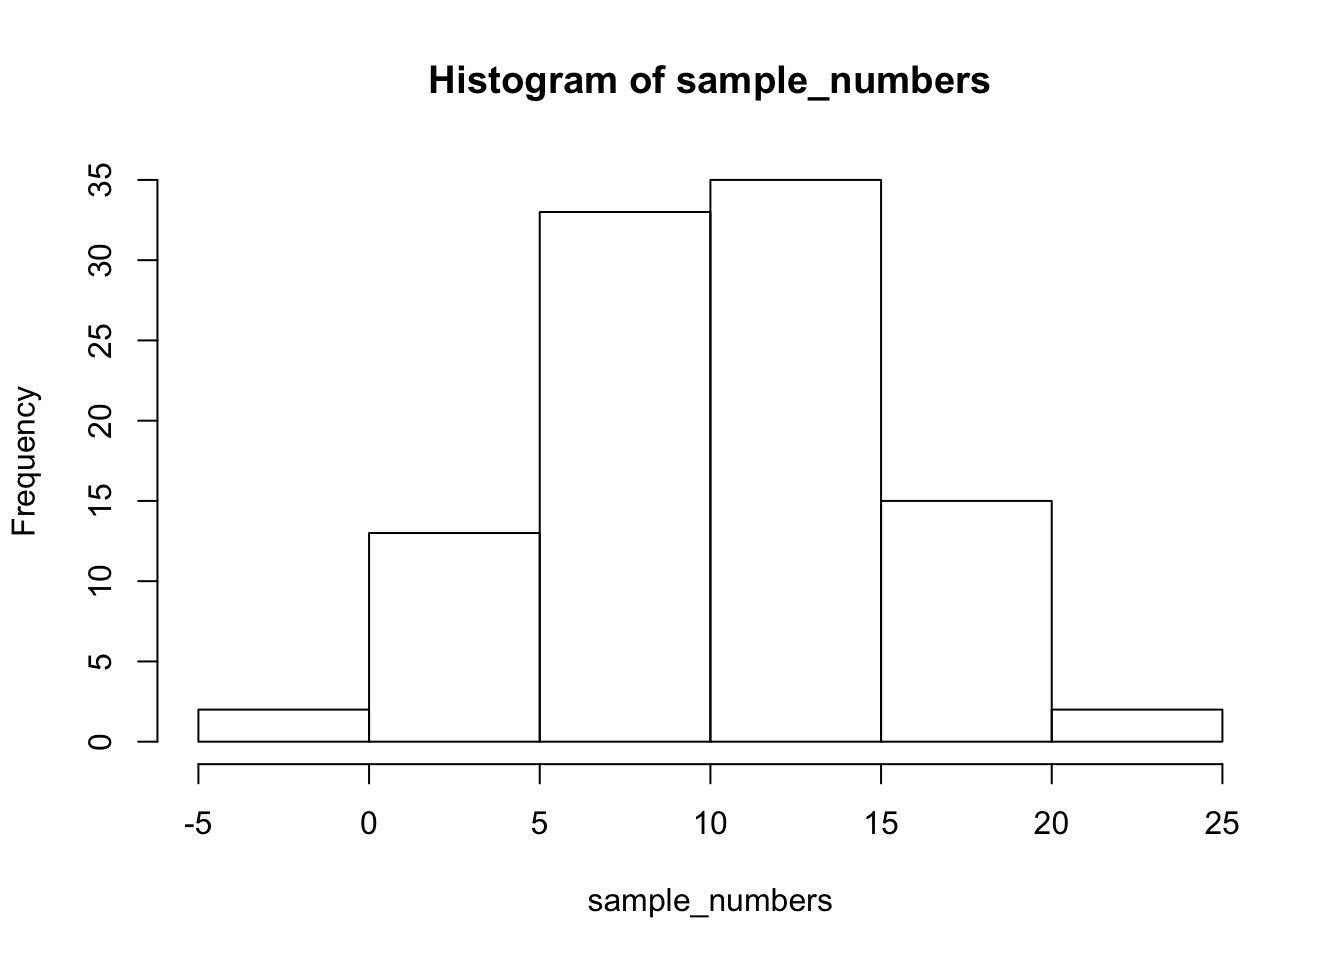
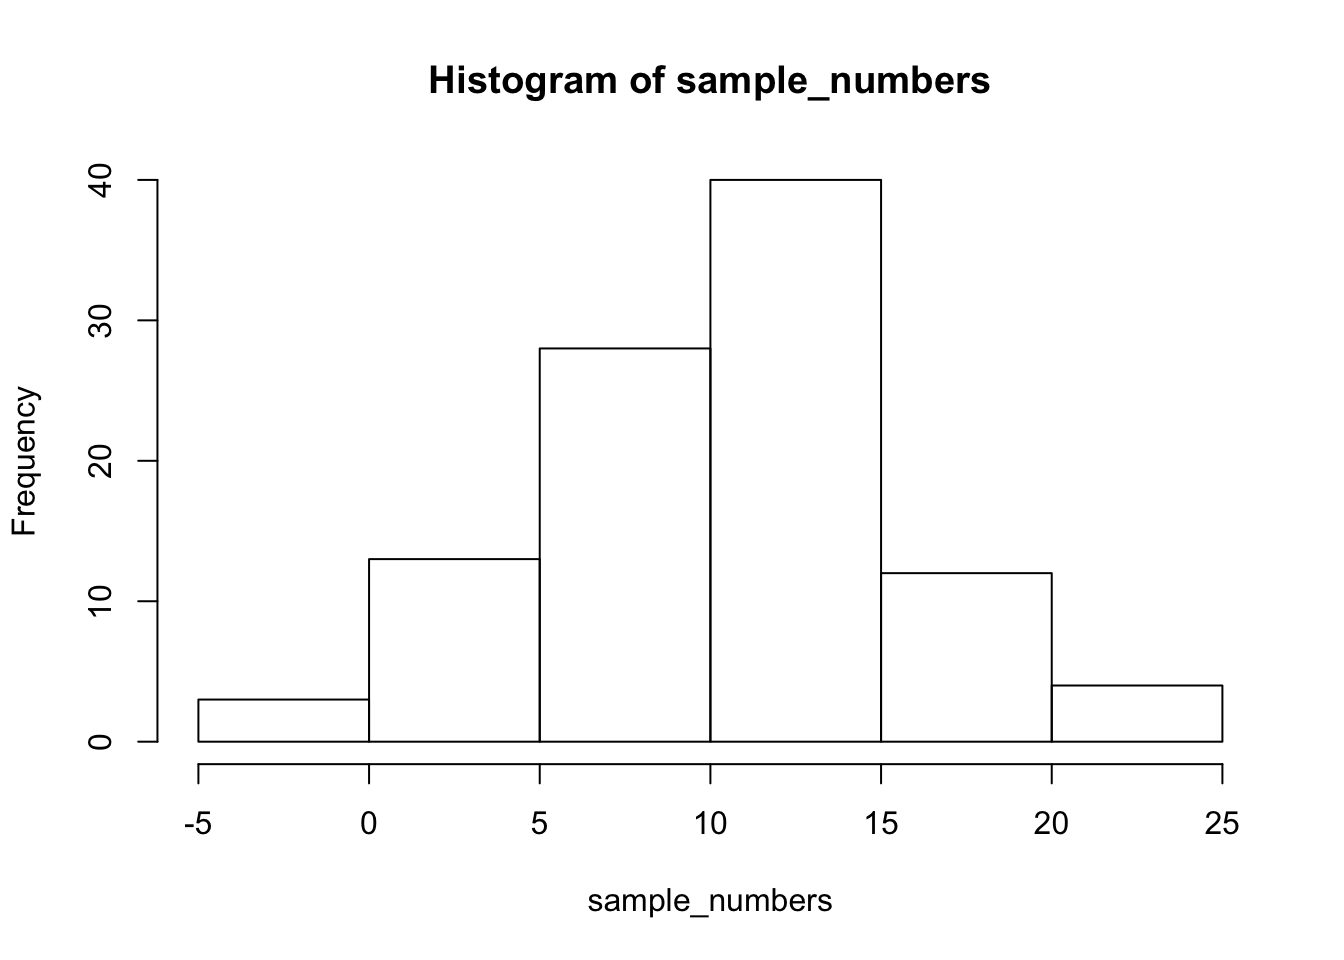
minor fix

diff --git a/docs/lab-2-descriptive-statistics-and-more-graphs.html b/docs/lab-2-descriptive-statistics-and-more-graphs.html
@@ -704,22 +704,22 @@ Describing comic sensibility is near impossible. It’s sort of an abstract sill
 <h4><span class="header-section-number">2.2.3.1</span> range</h4>
 <p>The range is the minimum and maximum values in the set, we use the <code>range</code> function.</p>
 <div class="sourceCode" id="cb21"><pre class="sourceCode r"><code class="sourceCode r"><span id="cb21-1"><a href="lab-2-descriptive-statistics-and-more-graphs.html#cb21-1" aria-hidden="true" tabindex="-1"></a><span class="fu">range</span>(sample_numbers)</span></code></pre></div>
-<pre><code>## [1] -2.087297 21.273803</code></pre>
+<pre><code>## [1] -1.905809 22.628741</code></pre>
 </div>
 <div id="var-variance" class="section level4" number="2.2.3.2">
 <h4><span class="header-section-number">2.2.3.2</span> var = variance</h4>
 <p>We can find the sample variance using <code>var</code>. Note, divides by (n-1)</p>
 <div class="sourceCode" id="cb23"><pre class="sourceCode r"><code class="sourceCode r"><span id="cb23-1"><a href="lab-2-descriptive-statistics-and-more-graphs.html#cb23-1" aria-hidden="true" tabindex="-1"></a><span class="fu">var</span>(sample_numbers)</span></code></pre></div>
-<pre><code>## [1] 22.479</code></pre>
+<pre><code>## [1] 26.11673</code></pre>
 </div>
 <div id="sd-standard-deviation" class="section level4" number="2.2.3.3">
 <h4><span class="header-section-number">2.2.3.3</span> sd = standard deviation</h4>
 <p>We find the sample standard deviation us SD. Note, divides by (n-1)</p>
 <div class="sourceCode" id="cb25"><pre class="sourceCode r"><code class="sourceCode r"><span id="cb25-1"><a href="lab-2-descriptive-statistics-and-more-graphs.html#cb25-1" aria-hidden="true" tabindex="-1"></a><span class="fu">sd</span>(sample_numbers)</span></code></pre></div>
-<pre><code>## [1] 4.741202</code></pre>
+<pre><code>## [1] 5.110453</code></pre>
 <p>Remember that the standard deviation is just the square root of the variance, see:</p>
 <div class="sourceCode" id="cb27"><pre class="sourceCode r"><code class="sourceCode r"><span id="cb27-1"><a href="lab-2-descriptive-statistics-and-more-graphs.html#cb27-1" aria-hidden="true" tabindex="-1"></a><span class="fu">sqrt</span>(<span class="fu">var</span>(sample_numbers))</span></code></pre></div>
-<pre><code>## [1] 4.741202</code></pre>
+<pre><code>## [1] 5.110453</code></pre>
 </div>
 <div id="all-descriptives" class="section level4" number="2.2.3.4">
 <h4><span class="header-section-number">2.2.3.4</span> All Descriptives</h4>
@@ -727,21 +727,21 @@ Describing comic sensibility is near impossible. It’s sort of an abstract sill
 <div class="sourceCode" id="cb29"><pre class="sourceCode r"><code class="sourceCode r"><span id="cb29-1"><a href="lab-2-descriptive-statistics-and-more-graphs.html#cb29-1" aria-hidden="true" tabindex="-1"></a>sample_numbers <span class="ot">&lt;-</span> <span class="fu">rnorm</span>(<span class="dv">100</span>,<span class="dv">10</span>,<span class="dv">5</span>)</span>
 <span id="cb29-2"><a href="lab-2-descriptive-statistics-and-more-graphs.html#cb29-2" aria-hidden="true" tabindex="-1"></a></span>
 <span id="cb29-3"><a href="lab-2-descriptive-statistics-and-more-graphs.html#cb29-3" aria-hidden="true" tabindex="-1"></a><span class="fu">sum</span>(sample_numbers)</span></code></pre></div>
-<pre><code>## [1] 1085.055</code></pre>
+<pre><code>## [1] 969.5926</code></pre>
 <div class="sourceCode" id="cb31"><pre class="sourceCode r"><code class="sourceCode r"><span id="cb31-1"><a href="lab-2-descriptive-statistics-and-more-graphs.html#cb31-1" aria-hidden="true" tabindex="-1"></a><span class="fu">length</span>(sample_numbers)</span></code></pre></div>
 <pre><code>## [1] 100</code></pre>
 <div class="sourceCode" id="cb33"><pre class="sourceCode r"><code class="sourceCode r"><span id="cb33-1"><a href="lab-2-descriptive-statistics-and-more-graphs.html#cb33-1" aria-hidden="true" tabindex="-1"></a><span class="fu">mean</span>(sample_numbers)</span></code></pre></div>
-<pre><code>## [1] 10.85055</code></pre>
+<pre><code>## [1] 9.695926</code></pre>
 <div class="sourceCode" id="cb35"><pre class="sourceCode r"><code class="sourceCode r"><span id="cb35-1"><a href="lab-2-descriptive-statistics-and-more-graphs.html#cb35-1" aria-hidden="true" tabindex="-1"></a><span class="fu">median</span>(sample_numbers)</span></code></pre></div>
-<pre><code>## [1] 10.87351</code></pre>
+<pre><code>## [1] 9.810293</code></pre>
 <div class="sourceCode" id="cb37"><pre class="sourceCode r"><code class="sourceCode r"><span id="cb37-1"><a href="lab-2-descriptive-statistics-and-more-graphs.html#cb37-1" aria-hidden="true" tabindex="-1"></a><span class="fu">my_mode</span>(sample_numbers)</span></code></pre></div>
-<pre><code>## [1] 13.25117</code></pre>
+<pre><code>## [1] 7.523507</code></pre>
 <div class="sourceCode" id="cb39"><pre class="sourceCode r"><code class="sourceCode r"><span id="cb39-1"><a href="lab-2-descriptive-statistics-and-more-graphs.html#cb39-1" aria-hidden="true" tabindex="-1"></a><span class="fu">range</span>(sample_numbers)</span></code></pre></div>
-<pre><code>## [1] -3.040036 23.168718</code></pre>
+<pre><code>## [1] -1.701621 20.371631</code></pre>
 <div class="sourceCode" id="cb41"><pre class="sourceCode r"><code class="sourceCode r"><span id="cb41-1"><a href="lab-2-descriptive-statistics-and-more-graphs.html#cb41-1" aria-hidden="true" tabindex="-1"></a><span class="fu">var</span>(sample_numbers)</span></code></pre></div>
-<pre><code>## [1] 26.14773</code></pre>
+<pre><code>## [1] 23.57015</code></pre>
 <div class="sourceCode" id="cb43"><pre class="sourceCode r"><code class="sourceCode r"><span id="cb43-1"><a href="lab-2-descriptive-statistics-and-more-graphs.html#cb43-1" aria-hidden="true" tabindex="-1"></a><span class="fu">sd</span>(sample_numbers)</span></code></pre></div>
-<pre><code>## [1] 5.113485</code></pre>
+<pre><code>## [1] 4.85491</code></pre>
 </div>
 </div>
 <div id="descriptives-by-conditions" class="section level3" number="2.2.4">
@@ -754,11 +754,11 @@ Describing comic sensibility is near impossible. It’s sort of an abstract sill
 <p>If you look at the <code>my_df</code> data frame, you will see it has 100 rows, there are 10 rows for each condition with a label in the <code>conditions</code> column, and 10 scores for each condition in the <code>scores</code> column. What if you wanted to know the mean of the scores in each condition? You would want to find 10 means.</p>
 <p>The slow way to do it would be like this:</p>
 <div class="sourceCode" id="cb46"><pre class="sourceCode r"><code class="sourceCode r"><span id="cb46-1"><a href="lab-2-descriptive-statistics-and-more-graphs.html#cb46-1" aria-hidden="true" tabindex="-1"></a><span class="fu">mean</span>(my_df[my_df<span class="sc">$</span>conditions<span class="sc">==</span><span class="st">&quot;A&quot;</span>,]<span class="sc">$</span>scores)</span></code></pre></div>
-<pre><code>## [1] 9.965577</code></pre>
+<pre><code>## [1] 8.007127</code></pre>
 <div class="sourceCode" id="cb48"><pre class="sourceCode r"><code class="sourceCode r"><span id="cb48-1"><a href="lab-2-descriptive-statistics-and-more-graphs.html#cb48-1" aria-hidden="true" tabindex="-1"></a><span class="fu">mean</span>(my_df[my_df<span class="sc">$</span>conditions<span class="sc">==</span><span class="st">&quot;B&quot;</span>,]<span class="sc">$</span>scores)</span></code></pre></div>
-<pre><code>## [1] 12.42995</code></pre>
+<pre><code>## [1] 12.67182</code></pre>
 <div class="sourceCode" id="cb50"><pre class="sourceCode r"><code class="sourceCode r"><span id="cb50-1"><a href="lab-2-descriptive-statistics-and-more-graphs.html#cb50-1" aria-hidden="true" tabindex="-1"></a><span class="fu">mean</span>(my_df[my_df<span class="sc">$</span>conditions<span class="sc">==</span><span class="st">&quot;C&quot;</span>,]<span class="sc">$</span>scores)</span></code></pre></div>
-<pre><code>## [1] 10.68259</code></pre>
+<pre><code>## [1] 10.38982</code></pre>
 <div class="sourceCode" id="cb52"><pre class="sourceCode r"><code class="sourceCode r"><span id="cb52-1"><a href="lab-2-descriptive-statistics-and-more-graphs.html#cb52-1" aria-hidden="true" tabindex="-1"></a><span class="co"># and then keep going</span></span></code></pre></div>
 <p>Nobody wants to do that! Not, me I stopped doing it that way, you should to.</p>
 <div id="group_by-and-summarise" class="section level4" number="2.2.4.1">
@@ -779,16 +779,16 @@ Describing comic sensibility is near impossible. It’s sort of an abstract sill
 <pre><code>## # A tibble: 10 x 2
 ##    conditions means
 ##  * &lt;fct&gt;      &lt;dbl&gt;
-##  1 A           9.97
-##  2 B          12.4 
-##  3 C          10.7 
-##  4 D          11.8 
+##  1 A           8.01
+##  2 B          12.7 
+##  3 C          10.4 
+##  4 D          13.3 
 ##  5 E          10.3 
-##  6 F           8.49
-##  7 G           7.99
-##  8 H           9.27
-##  9 I           8.23
-## 10 J          10.1</code></pre>
+##  6 F           8.02
+##  7 G          10.8 
+##  8 H          12.1 
+##  9 I           8.10
+## 10 J           8.97</code></pre>
 <p>A couple things now. First, the print out of this was ugly. Let’s fix that. we put the results of our code into a new variable, then we use <code>knitr::kable</code> to print it out nicely when we <code>knit</code> the document</p>
 <div class="sourceCode" id="cb59"><pre class="sourceCode r"><code class="sourceCode r"><span id="cb59-1"><a href="lab-2-descriptive-statistics-and-more-graphs.html#cb59-1" aria-hidden="true" tabindex="-1"></a>summary_df <span class="ot">&lt;-</span> my_df <span class="sc">%&gt;%</span></span>
 <span id="cb59-2"><a href="lab-2-descriptive-statistics-and-more-graphs.html#cb59-2" aria-hidden="true" tabindex="-1"></a>               <span class="fu">group_by</span>(conditions) <span class="sc">%&gt;%</span></span>
@@ -805,43 +805,43 @@ Describing comic sensibility is near impossible. It’s sort of an abstract sill
 <tbody>
 <tr class="odd">
 <td align="left">A</td>
-<td align="right">9.965577</td>
+<td align="right">8.007127</td>
 </tr>
 <tr class="even">
 <td align="left">B</td>
-<td align="right">12.429949</td>
+<td align="right">12.671815</td>
 </tr>
 <tr class="odd">
 <td align="left">C</td>
-<td align="right">10.682590</td>
+<td align="right">10.389818</td>
 </tr>
 <tr class="even">
 <td align="left">D</td>
-<td align="right">11.765614</td>
+<td align="right">13.332869</td>
 </tr>
 <tr class="odd">
 <td align="left">E</td>
-<td align="right">10.298033</td>
+<td align="right">10.328874</td>
 </tr>
 <tr class="even">
 <td align="left">F</td>
-<td align="right">8.487423</td>
+<td align="right">8.025000</td>
 </tr>
 <tr class="odd">
 <td align="left">G</td>
-<td align="right">7.994122</td>
+<td align="right">10.754765</td>
 </tr>
 <tr class="even">
 <td align="left">H</td>
-<td align="right">9.273144</td>
+<td align="right">12.137039</td>
 </tr>
 <tr class="odd">
 <td align="left">I</td>
-<td align="right">8.233074</td>
+<td align="right">8.099785</td>
 </tr>
 <tr class="even">
 <td align="left">J</td>
-<td align="right">10.081048</td>
+<td align="right">8.973796</td>
 </tr>
 </tbody>
 </table>
@@ -866,53 +866,53 @@ Describing comic sensibility is near impossible. It’s sort of an abstract sill
 <tbody>
 <tr class="odd">
 <td align="left">A</td>
-<td align="right">9.965577</td>
-<td align="right">5.587471</td>
+<td align="right">8.007127</td>
+<td align="right">4.529123</td>
 </tr>
 <tr class="even">
 <td align="left">B</td>
-<td align="right">12.429949</td>
-<td align="right">3.734776</td>
+<td align="right">12.671815</td>
+<td align="right">5.522188</td>
 </tr>
 <tr class="odd">
 <td align="left">C</td>
-<td align="right">10.682590</td>
-<td align="right">6.363281</td>
+<td align="right">10.389818</td>
+<td align="right">4.021333</td>
 </tr>
 <tr class="even">
 <td align="left">D</td>
-<td align="right">11.765614</td>
-<td align="right">3.330455</td>
+<td align="right">13.332869</td>
+<td align="right">3.534380</td>
 </tr>
 <tr class="odd">
 <td align="left">E</td>
-<td align="right">10.298033</td>
-<td align="right">4.870951</td>
+<td align="right">10.328874</td>
+<td align="right">2.180816</td>
 </tr>
 <tr class="even">
 <td align="left">F</td>
-<td align="right">8.487423</td>
-<td align="right">2.513237</td>
+<td align="right">8.025000</td>
+<td align="right">3.046745</td>
 </tr>
 <tr class="odd">
 <td align="left">G</td>
-<td align="right">7.994122</td>
-<td align="right">5.245219</td>
+<td align="right">10.754765</td>
+<td align="right">2.487080</td>
 </tr>
 <tr class="even">
 <td align="left">H</td>
-<td align="right">9.273144</td>
-<td align="right">5.100693</td>
+<td align="right">12.137039</td>
+<td align="right">3.473103</td>
 </tr>
 <tr class="odd">
 <td align="left">I</td>
-<td align="right">8.233074</td>
-<td align="right">4.389763</td>
+<td align="right">8.099785</td>
+<td align="right">3.969317</td>
 </tr>
 <tr class="even">
 <td align="left">J</td>
-<td align="right">10.081048</td>
-<td align="right">3.144196</td>
+<td align="right">8.973796</td>
+<td align="right">3.576365</td>
 </tr>
 </tbody>
 </table>
@@ -938,73 +938,73 @@ Describing comic sensibility is near impossible. It’s sort of an abstract sill
 <tbody>
 <tr class="odd">
 <td align="left">A</td>
-<td align="right">9.965577</td>
-<td align="right">5.587471</td>
-<td align="right">3.651518</td>
-<td align="right">20.45252</td>
+<td align="right">8.007127</td>
+<td align="right">4.529123</td>
+<td align="right">2.2451129</td>
+<td align="right">16.06875</td>
 </tr>
 <tr class="even">
 <td align="left">B</td>
-<td align="right">12.429949</td>
-<td align="right">3.734776</td>
-<td align="right">7.354965</td>
-<td align="right">19.59611</td>
+<td align="right">12.671815</td>
+<td align="right">5.522188</td>
+<td align="right">7.0265780</td>
+<td align="right">25.63427</td>
 </tr>
 <tr class="odd">
 <td align="left">C</td>
-<td align="right">10.682590</td>
-<td align="right">6.363281</td>
-<td align="right">-3.351149</td>
-<td align="right">17.57697</td>
+<td align="right">10.389818</td>
+<td align="right">4.021333</td>
+<td align="right">2.9568664</td>
+<td align="right">14.97870</td>
 </tr>
 <tr class="even">
 <td align="left">D</td>
-<td align="right">11.765614</td>
-<td align="right">3.330455</td>
-<td align="right">5.860654</td>
-<td align="right">16.26088</td>
+<td align="right">13.332869</td>
+<td align="right">3.534380</td>
+<td align="right">7.2919619</td>
+<td align="right">17.89318</td>
 </tr>
 <tr class="odd">
 <td align="left">E</td>
-<td align="right">10.298033</td>
-<td align="right">4.870951</td>
-<td align="right">2.706194</td>
-<td align="right">18.38120</td>
+<td align="right">10.328874</td>
+<td align="right">2.180816</td>
+<td align="right">7.5462069</td>
+<td align="right">13.84609</td>
 </tr>
 <tr class="even">
 <td align="left">F</td>
-<td align="right">8.487423</td>
-<td align="right">2.513237</td>
-<td align="right">3.888223</td>
-<td align="right">11.41556</td>
+<td align="right">8.025000</td>
+<td align="right">3.046745</td>
+<td align="right">3.5561250</td>
+<td align="right">13.19149</td>
 </tr>
 <tr class="odd">
 <td align="left">G</td>
-<td align="right">7.994122</td>
-<td align="right">5.245219</td>
-<td align="right">-1.678939</td>
-<td align="right">15.24592</td>
+<td align="right">10.754765</td>
+<td align="right">2.487080</td>
+<td align="right">7.7110106</td>
+<td align="right">15.63617</td>
 </tr>
 <tr class="even">
 <td align="left">H</td>
-<td align="right">9.273144</td>
-<td align="right">5.100693</td>
-<td align="right">-1.297892</td>
-<td align="right">14.99064</td>
+<td align="right">12.137039</td>
+<td align="right">3.473103</td>
+<td align="right">6.5571205</td>
+<td align="right">17.93903</td>
 </tr>
 <tr class="odd">
 <td align="left">I</td>
-<td align="right">8.233074</td>
-<td align="right">4.389763</td>
-<td align="right">3.133187</td>
-<td align="right">16.59634</td>
+<td align="right">8.099785</td>
+<td align="right">3.969317</td>
+<td align="right">0.0892806</td>
+<td align="right">13.11382</td>
 </tr>
 <tr class="even">
 <td align="left">J</td>
-<td align="right">10.081048</td>
-<td align="right">3.144196</td>
-<td align="right">5.873818</td>
-<td align="right">16.31997</td>
+<td align="right">8.973796</td>
+<td align="right">3.576365</td>
+<td align="right">4.6899751</td>
+<td align="right">16.76998</td>
 </tr>
 </tbody>
 </table>
@@ -1332,7 +1332,7 @@ Describing comic sensibility is near impossible. It’s sort of an abstract sill
 <p>If the measurement scale is nominal, we usually look at the mode for information about central tendency. If the measurement scale is ordinal, we usually look at the median for information about central tendency. The central tendency measure used for interval or ratio scales of measurement can vary. If the distribution is not skewed, we would usually consider the mean. If the distribution is skewed, we might look to the median to avoid the influence the long, asymmetric tail of the distribution has on the mean. The median is also a good choice for interval or ratio data if there are outliers present. This is because the mean is “sensitive” to outliers - outliers can impact the mean a lot. The median is not sensitive to outliers.</p>
 <p>The <code>SLEEP</code> variable is example of how a skewed distribution and/or outliers can impact the mean.</p>
 <p>Some concepts can be measured at multiple scales of measurement. Consider, for example, exercise behaviour of Nova Scotians. The descriptive statistics you choose to calculate usually depend on the scale of measurement. While browsing through the data dictionary, if we look at <code>HB_EXERCISE</code>, we see that the variable asks participants to indicate their agreement with the following statement: “In the past week, I regularly engaged in good quality exercise.” Participants’ agreement is indicated using a Likert scale, ranging from 1 to 7, wherein 1 = very strongly disagree and 7 = very strongly agree. Likert scales such as this one are ordinal; however, we often treat them as interval. In this case, we call it a quasi-interval scale. If we consider the scale ordinal, we would probably report the median. If we consider the scale quasi-interval, we would most likely report the mean.</p>
-<p>If, however, we look at <code>PA_VIGOROUS</code>, we see that the variable asks participants to indicate their physical activity participation in the previous month. Participants were instructed to enter the number of times they engaged in a a vigorous activity in the past month. This variable is measured on a ratio scale. Unless the data are skewed, we would likely report the mean. You can see that the answer to a research question about Nova Scotians’ exercise, as well as the statistics you consider to formulate that answer, will depend upon the variable at which you look.</p>
+<p>If, however, we look at <code>PA_VIGOROUS</code>, we see that the variable asks participants to indicate their physical activity participation in the previous month. Participants were instructed to enter the number of times they engaged in a a vigorous activity in the past month. This variable is measured on a ratio scale. Unless the data are skewed or there are outliers, we would likely report the mean. You can see that the answer to a research question about Nova Scotians’ exercise, as well as the statistics you consider to formulate that answer, will depend upon the variable at which you look.</p>
 </div>
 <div id="selecting-the-variation-measure" class="section level4" number="2.5.5.2">
 <h4><span class="header-section-number">2.5.5.2</span> Selecting the variation measure</h4>
